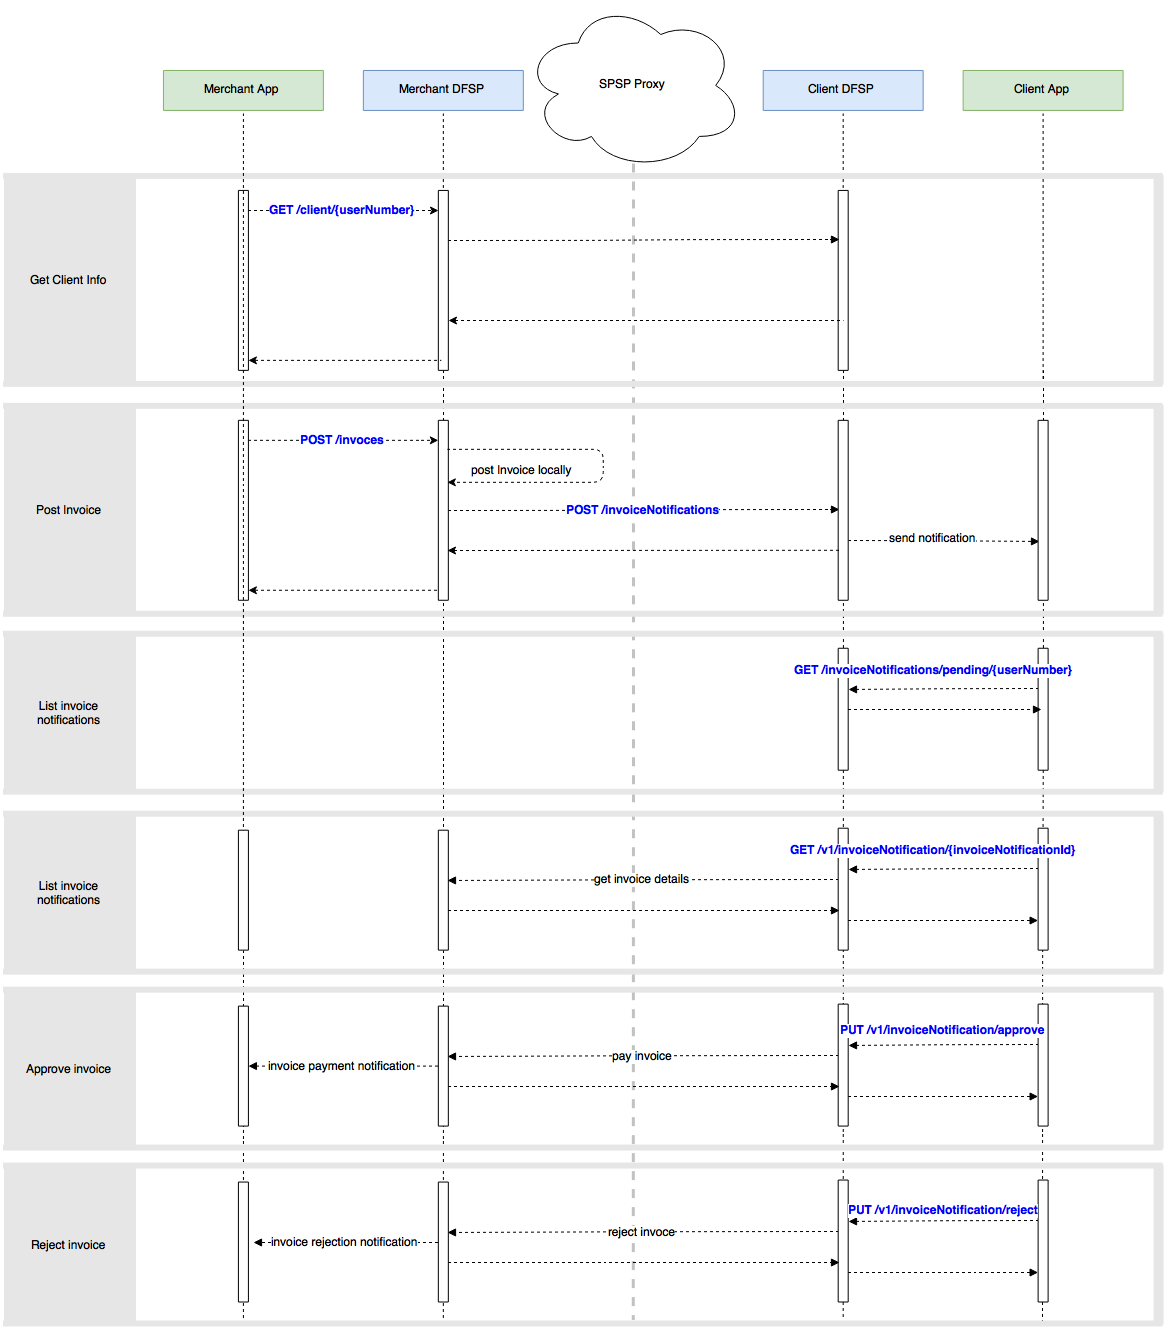
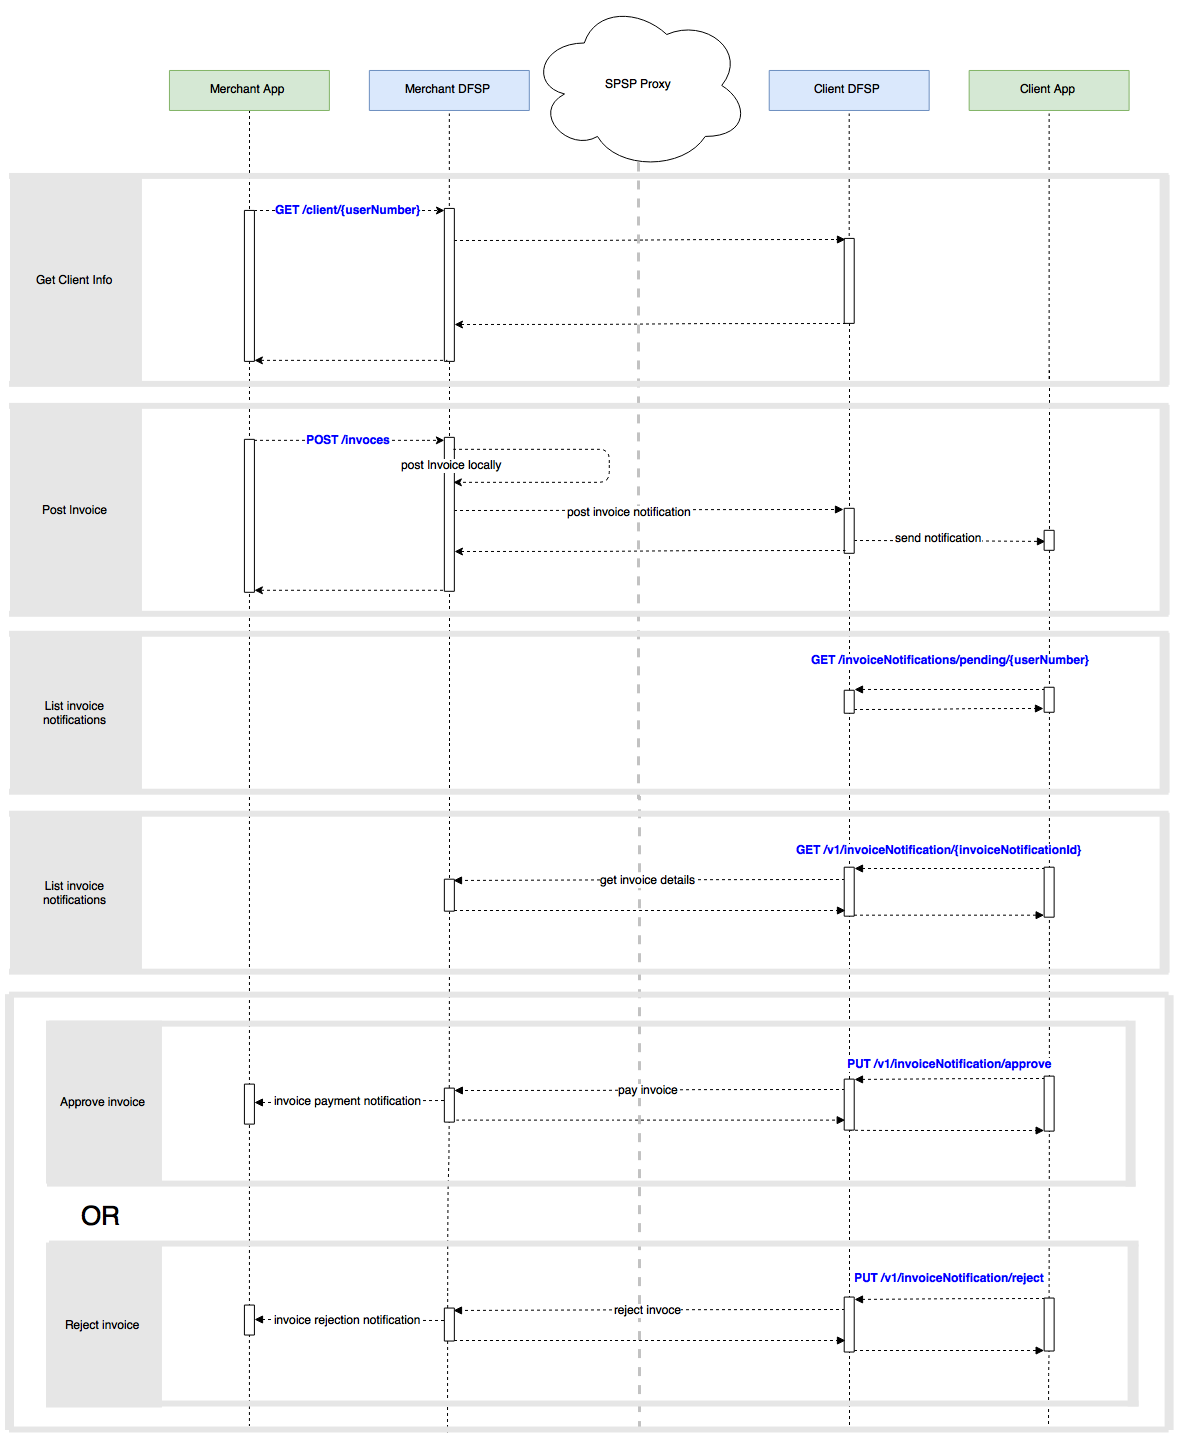
fix: add summaries and more detailed flow diagram

Changed region(s): [[0.0, 0.0308, 1.0, 1.0], [0.5249, 0.0308, 0.5557, 0.0615], [0.494, 0.0, 0.5249, 0.0308]]

diff --git a/DFSP/Pending Transactions Api/README.md b/DFSP/Pending Transactions Api/README.md
@@ -1,24 +1,37 @@
 ## I.  OVERVIEW  ##
+ 
+Current document will cover the flow of creating and approving/rejecting pending transactions using 
+DFSP Over the Top API. The API exposes the DFSP functionalities for transactions processing, customer and account management, etc. to third party applications such as Android/IPhone smart application. There are additional set of APIs which are used for communication between DFSP to DFSP. Those APIs will not be analyzed in the current document. 
 
-Summary
+API Principles  
 
-![](./diagrams/Pending_Transactions.png)
+  * Restful approach to API design
+  * Based on JSON, no other content types are supported
 
-Assumptions
+Assumptions  
+
+   * Merchant is the party sending the invoices.
+   * Client is the party who is receiving the ivoices and he is able to approve/reject them.
+   * Merchant and the client are in different systems.
+   * Merchant and the client are loggen in their systems.
+
+
+![](./diagrams/pending_transactions.png)
+
+
 
 ## II.  GET CLIENT INFORMATION  ##
 
-Summary
+It will check if the client is in the same system and if he is then it will return information about him. If the client is not in the same system it will ask the central directory and return information about him if there are any matching results. Client information is described bellow.
 
 ### Api description
-
 
 ----
   
 
 * **URL**
 
-  `v1/invoices/client/{userNumber}`
+  `/v1/client/{userNumber}`
 
 * **Method:**
 
@@ -51,21 +64,19 @@ Summary
       "imageUrl": "https://red.ilpdemo.org/api/receivers/bob/profile_pic.jpg"
     }
   ```
-
+* **<a href="http://localhost:8010/documentation?tags=getClient" target="_blank">Try it out here</a>**
 
 ## III.  CREATE INVOICE  ##
 
-Summary
+The invoice will be created in the merchant's DFSP. It will be associated with an account. After the invoice is created in the merchant's DFSP a notification with the invoice reference will be send to the default client DFSP. The invoice reference in the client DFSP will not be associated with any clients account thus the client can choose an account from which he is going to pay the invoice.
 
 ### Api description
-
-
 ----
   
 
 * **URL**
 
-  `v1/invoices`
+  `/v1/invoices`
 
 * **Method:**
 
@@ -75,7 +86,7 @@ Summary
 
   **Required:**  
 
-   * `account [string] - Invoice issuer's account`  
+   * `account [string] - Invoice merchant's account`  
    * `amount [number] - Invoice amount`  
    * `userNumber [string] - Client's user number`
 
@@ -102,20 +113,20 @@ Summary
     **Content:**
        * `type [string] - Invoice type`
        * `invoiceNotificationId [number] - Invoice notification id`
-       * `account [string] - Invoice issuer's account`  
-       * `name [string] - Invoice issuer's name`
-       * `currencyCode [string] - Invoice issuer's currency code`
-       * `currencySymbol [string] - Invoice issuer's currency symbol`
+       * `account [string] - Invoice merchant's account`  
+       * `name [string] - Invoice merchant's name`
+       * `currencyCode [string] - Invoice merchant's currency code`
+       * `currencySymbol [string] - Invoice merchant's currency symbol`
        * `amount [string] - Invoice amount`
        * `status [string] - Invoice status`
-       * `userNumber [string] - Invoice recepient's user number`
+       * `userNumber [string] - Invoice client's user number`
        * `info [string] - Invoice additional information`
 
 * **Sample Response:**
 
   ```
     {
-      "type": "INVOICE",
+      "type": "invoice",
       "invoiceNotificationId": 1,
       "account": "merchant",
       "name": "merchant",
@@ -127,10 +138,11 @@ Summary
       "info": "Invoice from merchant for 130.34 USD"
     }
   ```
+* **<a href="http://localhost:8010/documentation?tags=postInvoice" target="_blank">Try it out here</a>**
 
 ## IV.  LIST PENDING INVOICES - CLIENT ##
 
-Summary
+Client will be able to check all the invoices associated with him.
 
 ### Api description
 
@@ -139,7 +151,7 @@ Summary
 
 * **URL**
 
-  `v1/invoiceNotifications/pending/{userNumber}`
+  `/v1/invoiceNotifications/pending/{userNumber}`
 
 * **Method:**
 
@@ -160,8 +172,8 @@ Summary
   * **Code:** 200 <br />
     **Content:**
        * `invoiceNotificationId [number] - Invoice notification id`  
-       * `statusid [string] - Invoice notification id`  
-       * `statusid [string] - Additional invoice notification information`  
+       * `status [string] - Invoice notification status`  
+       * `info [string] - Additional invoice notification information`  
 
 * **Sample Response:**
 
@@ -175,11 +187,12 @@ Summary
         }
       ]
     }
-  ```
+  ```  
+* **<a href="http://localhost:8010/documentation?tags=getInvoiceNotificationList" target="_blank">Try it out here</a>**
 
 ## V.  GET INVOICE DETAILS  ##
 
-Summary
+It will return all the data related to the posted invoice by passing the invoice notification ID.
 
 ### Api description
 
@@ -188,7 +201,7 @@ Summary
 
 * **URL**
 
-  `v1/invoicesNotifications/{invoiceNotificationId}`
+  `/v1/invoicesNotifications/{invoiceNotificationId}`
 
 * **Method:**
 
@@ -208,8 +221,8 @@ Summary
 
   * **Code:** 200 <br />
     **Content:**
-       * `firstName [string] - Invoice issuer's first name`  
-       * `lastName [string] - Invoice issuer's last name`  
+       * `firstName [string] - Merchant's first name`  
+       * `lastName [string] - Merchant's last name`  
        * `amount [number] - Invoice amount`  
        * `currencyCode [string] - Currency code`  
        * `currencySymbol [string] - Currency symbol`  
@@ -226,20 +239,20 @@ Summary
       "currencySymbol": "$",
       "fee": 1.23,
     }
-  ```
+  ```  
+* **<a href="http://localhost:8010/documentation?tags=getInvoiceInfo" target="_blank">Try it out here</a>**
 
 ## VI.  APPROVE INVOICE  ##
 
-Summary
+Client will be able to approve invoices. Whit this action invoice notification will be approved, merchant's DFSP will be notified and it will approve the merchant's invoice. After all merchant will receive invoice payment notification. 
 
 ### Api description
-
 ----
   
 
 * **URL**
 
-  `v1/invoiceNotifications/approve`
+  `/v1/invoiceNotifications/approve`
 
 * **Method:**
 
@@ -249,8 +262,8 @@ Summary
 
   **Required:**
 
-   * `account [string] - Invoice issuer's account number`    
-   * `invoiceNotificationid [string] - Invoice notification id`    
+   * `account [string] - Invoice sender's account number`    
+   * `invoiceNotificationId [string] - Invoice notification id`    
 
 * **Sample Call:**
 
@@ -277,11 +290,12 @@ Summary
       "invoiceNotificationId": "3",
       "status": "approved",
     }
-  ```
+  ```  
+* **<a href="http://localhost:8010/documentation?tags=approveInvoiceNotification" target="_blank">Try it out here</a>**
 
 ## VII.  REJECT INVOICE  ##
 
-Summary
+Client also will be able to reject invoices. Whit this action invoice notification will be rejected,merchant's DFSP will be notified and it will reject the merchant's invoice. After all merchant will receive invoice rejection notification.
 
 ### Api description
 ----
@@ -289,7 +303,7 @@ Summary
 
 * **URL**
 
-  `v1/invoiceNotifications/reject`
+  `/v1/invoiceNotifications/reject`
 
 * **Method:**
 
@@ -327,3 +341,4 @@ Summary
       "status": "rejected",
     }
   ```
+* **<a href="http://localhost:8010/documentation?tags=rejectInvoiceNotification" target="_blank">Try it out here</a>**
